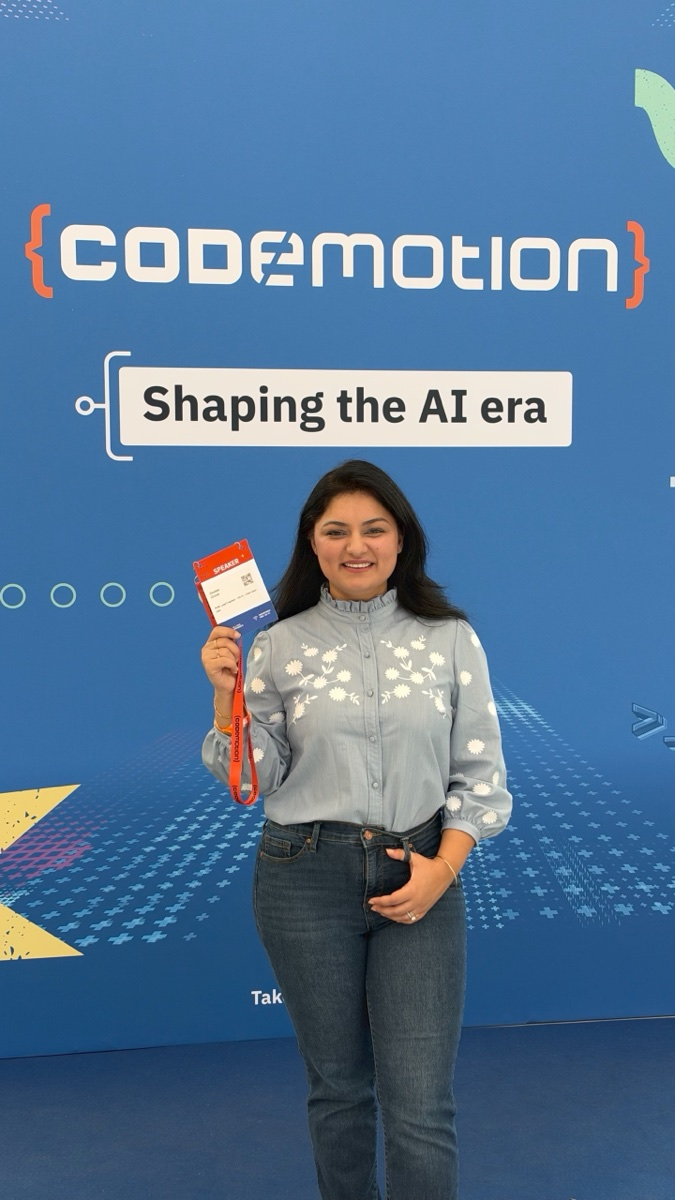
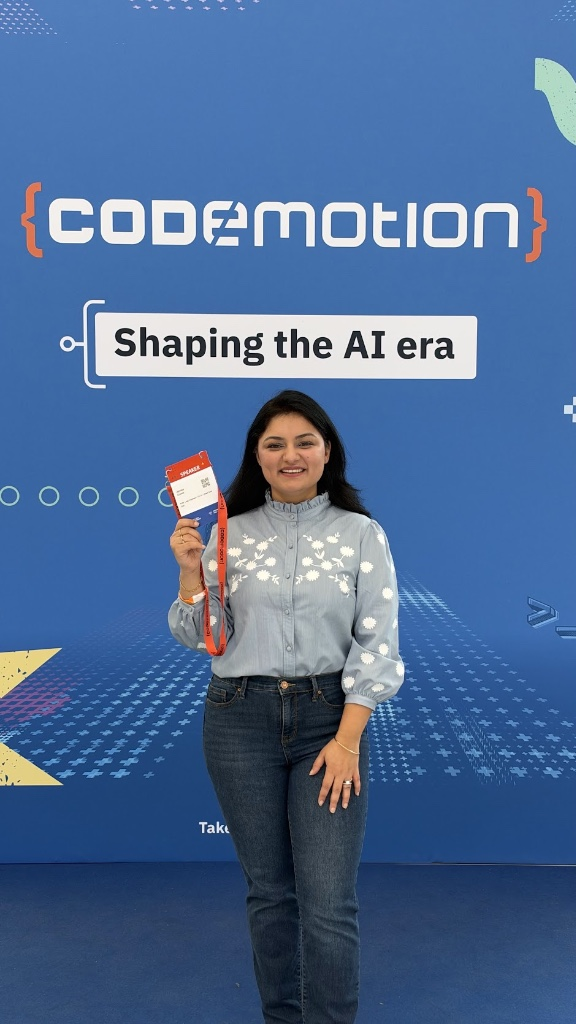
chore(media): update Codemotion Milan 2026 speaker portrait and framing

diff --git a/_pages/press.html b/_pages/press.html
@@ -132,7 +132,7 @@ permalink: /press/
     </a>
 
     <a class="gallery-card" href="/assets/images/press/jigyasa-grover-codemotion-speaker-2026.jpg" target="_blank" rel="noopener">
-      <img src="/assets/images/opt/codemotion_speaker_2026.jpg" width="675" height="1200" loading="lazy" style="object-position: center 44%;" alt="Jigyasa Grover holding her speaker badge at Codemotion Milan 2026" />
+      <img src="/assets/images/opt/codemotion_speaker_2026.jpg" width="576" height="1024" loading="lazy" style="object-position: center 27%;" alt="Jigyasa Grover holding her speaker badge at Codemotion Milan 2026" />
       <div class="gallery-card__body">
         <div class="gallery-card__title">Speaker Portrait (2026)</div>
         <p class="gallery-card__sub">Download Codemotion Milan photo ↗</p>

diff --git a/index.html b/index.html
@@ -188,10 +188,10 @@ description: "Official site of Jigyasa Grover: Uber ML Tech Lead, Google Develop
       <a class="gallery-card" href="/speaking/">
         <img
           src="/assets/images/opt/codemotion_speaker_2026.jpg"
-          width="675"
-          height="1200"
+          width="576"
+          height="1024"
           loading="lazy"
-          style="object-position: center 43%;"
+          style="object-position: center 27%;"
           alt="Jigyasa Grover holding her speaker badge at Codemotion Milan 2026"
         />
         <div class="gallery-card__body">

diff --git a/_pages/speaking.html b/_pages/speaking.html
@@ -46,10 +46,10 @@ permalink: /speaking/
   <div class="gallery-card">
     <img
       src="/assets/images/opt/codemotion_speaker_2026.jpg"
-      width="675"
-      height="1200"
+      width="576"
+      height="1024"
       loading="lazy"
-      style="object-position: center 43%;"
+      style="object-position: center 27%;"
       alt="Jigyasa Grover holding her speaker badge at Codemotion Milan 2026"
     />
     <div class="gallery-card__body">
